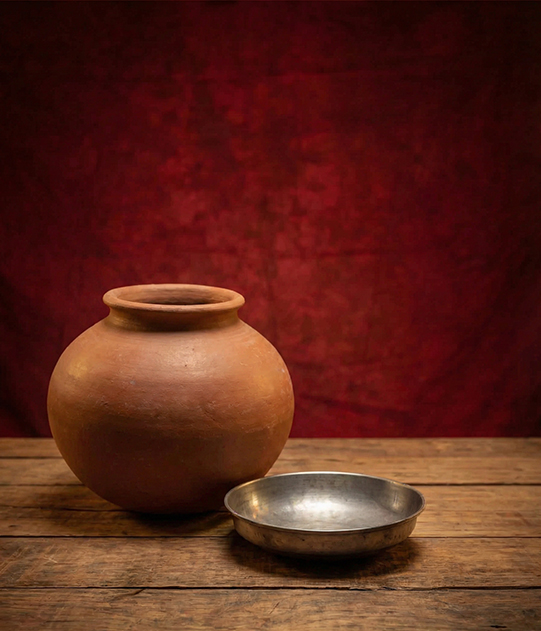
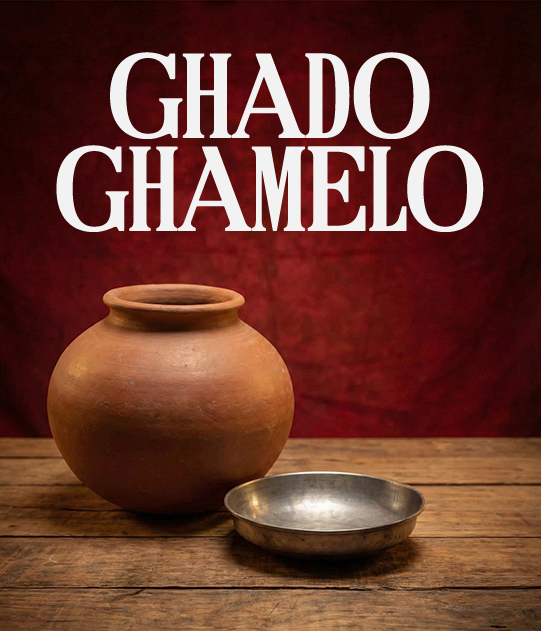
CSB-Micro-Chang

Changed region(s): [[0.0887, 0.0602, 0.9168, 0.3914]]

diff --git a/styles/main.css b/styles/main.css
@@ -102,7 +102,7 @@ strong {
 }
 
 .header .dropdown .dropdown-menu .dropdown-item {
-  color: #F40000;
+  color: #FFFFFF;
 }
 
 .header .dropdown .dropdown-menu .dropdown-item:hover {
@@ -157,10 +157,11 @@ strong {
 
 @media (max-width: 767px) {
   .banner .title {
-    top: 85px;
+    top: 100px;
   }
   .banner .title img {
-    height: 8vw;
+    width: 100%;
+    height: auto;
   }
 }
 
@@ -204,7 +205,7 @@ strong {
 }
 
 .mySwiper figure {
-  border-radius: 80px;
+  border-radius: 40px;
   overflow: hidden;
 }
 
@@ -217,6 +218,7 @@ strong {
   padding-left: 20px;
   opacity: 0;
   height: 0;
+  text-align: center;
 }
 
 .mySwiper .card-info h3 {
@@ -600,7 +602,7 @@ strong {
   }
 
   .card-modal .modal-body {
-    padding: 20px;
+    padding: 40px 20px 20px 20px;
   }
 
   .card-modal .card-modal-copy {
@@ -619,4 +621,3 @@ strong {
   }
 }
 
[1 lines of base64/hex data omitted]

diff --git a/home-page.html b/home-page.html
@@ -37,8 +37,12 @@
 </header>
 
 <div class="banner">
-    <div class="title"><img src="images/Back-to-Roots.png" alt=""></div>
-    <!-- <img src="images/banner.png" class="img-full" alt="">  -->
+    <div class="title">
+        <picture>
+            <source media="(min-width:650px)" srcset="images/Back-to-Roots.png">
+            <img src="images/Back-to-Roots-Mob.png" alt="banner" class="img-full">
+        </picture>
+    </div>
     <picture>
         <source media="(min-width:650px)" srcset="images/banner.jpg">
         <img src="images/banner-mob.jpg" alt="banner" class="img-full">
@@ -61,7 +65,7 @@
                 <div class="swiper-slide"><a href="#" data-modal-target="story-card-deru">
                         <figure><img src="images/card-1.jpg" alt=""></figure>
                         <div class="card-info">
-                            <h3>Deru</h3>
+                            <!-- <h3>Deru</h3> -->
                             <p>Read More</p>
                         </div>
                     </a>
@@ -69,7 +73,7 @@
                 <div class="swiper-slide"><a href="#" data-modal-target="story-card-toka">
                         <figure><img src="images/card-2.jpg" alt=""></figure>
                         <div class="card-info">
-                            <h3>Toka</h3>
+                            <!-- <h3>Toka</h3> -->
                            <p>Read More</p>
                         </div>
                     </a>
@@ -77,7 +81,7 @@
                 <div class="swiper-slide"><a href="#" data-modal-target="story-card-ghado-ghamelo">
                         <figure><img src="images/card-3.jpg" alt=""></figure>
                         <div class="card-info">
-                            <h3>Ghado Ghamelo</h3>
+                            <!-- <h3>Ghado Ghamelo</h3> -->
                            <p>Read More</p>
                         </div>
                     </a>
@@ -85,7 +89,7 @@
                 <div class="swiper-slide"><a href="#" data-modal-target="story-card-bugchu">
                         <figure><img src="images/card-4.jpg" alt=""></figure>
                         <div class="card-info">
-                            <h3>Bugchu</h3>
+                            <!-- <h3>Bugchu</h3> -->
                            <p>Read More</p>
                         </div>
                     </a>
@@ -93,7 +97,7 @@
                 <div class="swiper-slide"><a href="#" data-modal-target="story-card-gogona">
                         <figure><img src="images/card-5.jpg" alt=""></figure>
                         <div class="card-info">
-                            <h3>Gogona</h3>
+                            <!-- <h3>Gogona</h3> -->
                            <p>Read More</p>
                         </div>
                     </a>
@@ -101,7 +105,7 @@
                 <div class="swiper-slide"><a href="#" data-modal-target="story-card-jodia-pava">
                         <figure><img src="images/card-6.jpg" alt=""></figure>
                         <div class="card-info">
-                            <h3>Jodia Pava</h3>
+                            <!-- <h3>Jodia Pava</h3> -->
                            <p>Read More</p>
                         </div>
                     </a>
@@ -109,7 +113,7 @@
                 <div class="swiper-slide"><a href="#" data-modal-target="story-card-ghada">
                         <figure><img src="images/card-7.jpg" alt=""></figure>
                         <div class="card-info">
-                            <h3>Ghada</h3>
+                            <!-- <h3>Ghada</h3> -->
                            <p>Read More</p>
                         </div>
                     </a>
@@ -117,7 +121,7 @@
                 <div class="swiper-slide"><a href="#" data-modal-target="story-card-siphung">
                         <figure><img src="images/card-8.jpg" alt=""></figure>
                         <div class="card-info">
-                            <h3>Siphung</h3>
+                            <!-- <h3>Siphung</h3> -->
                            <p>Read More</p>
                         </div>
                     </a>
@@ -125,7 +129,7 @@
                 <div class="swiper-slide"><a href="#" data-modal-target="story-card-santaar">
                         <figure><img src="images/card-9.jpg" alt=""></figure>
                         <div class="card-info">
-                            <h3>Santaar</h3>
+                            <!-- <h3>Santaar</h3> -->
                            <p>Read More</p>
                         </div>
                     </a>
